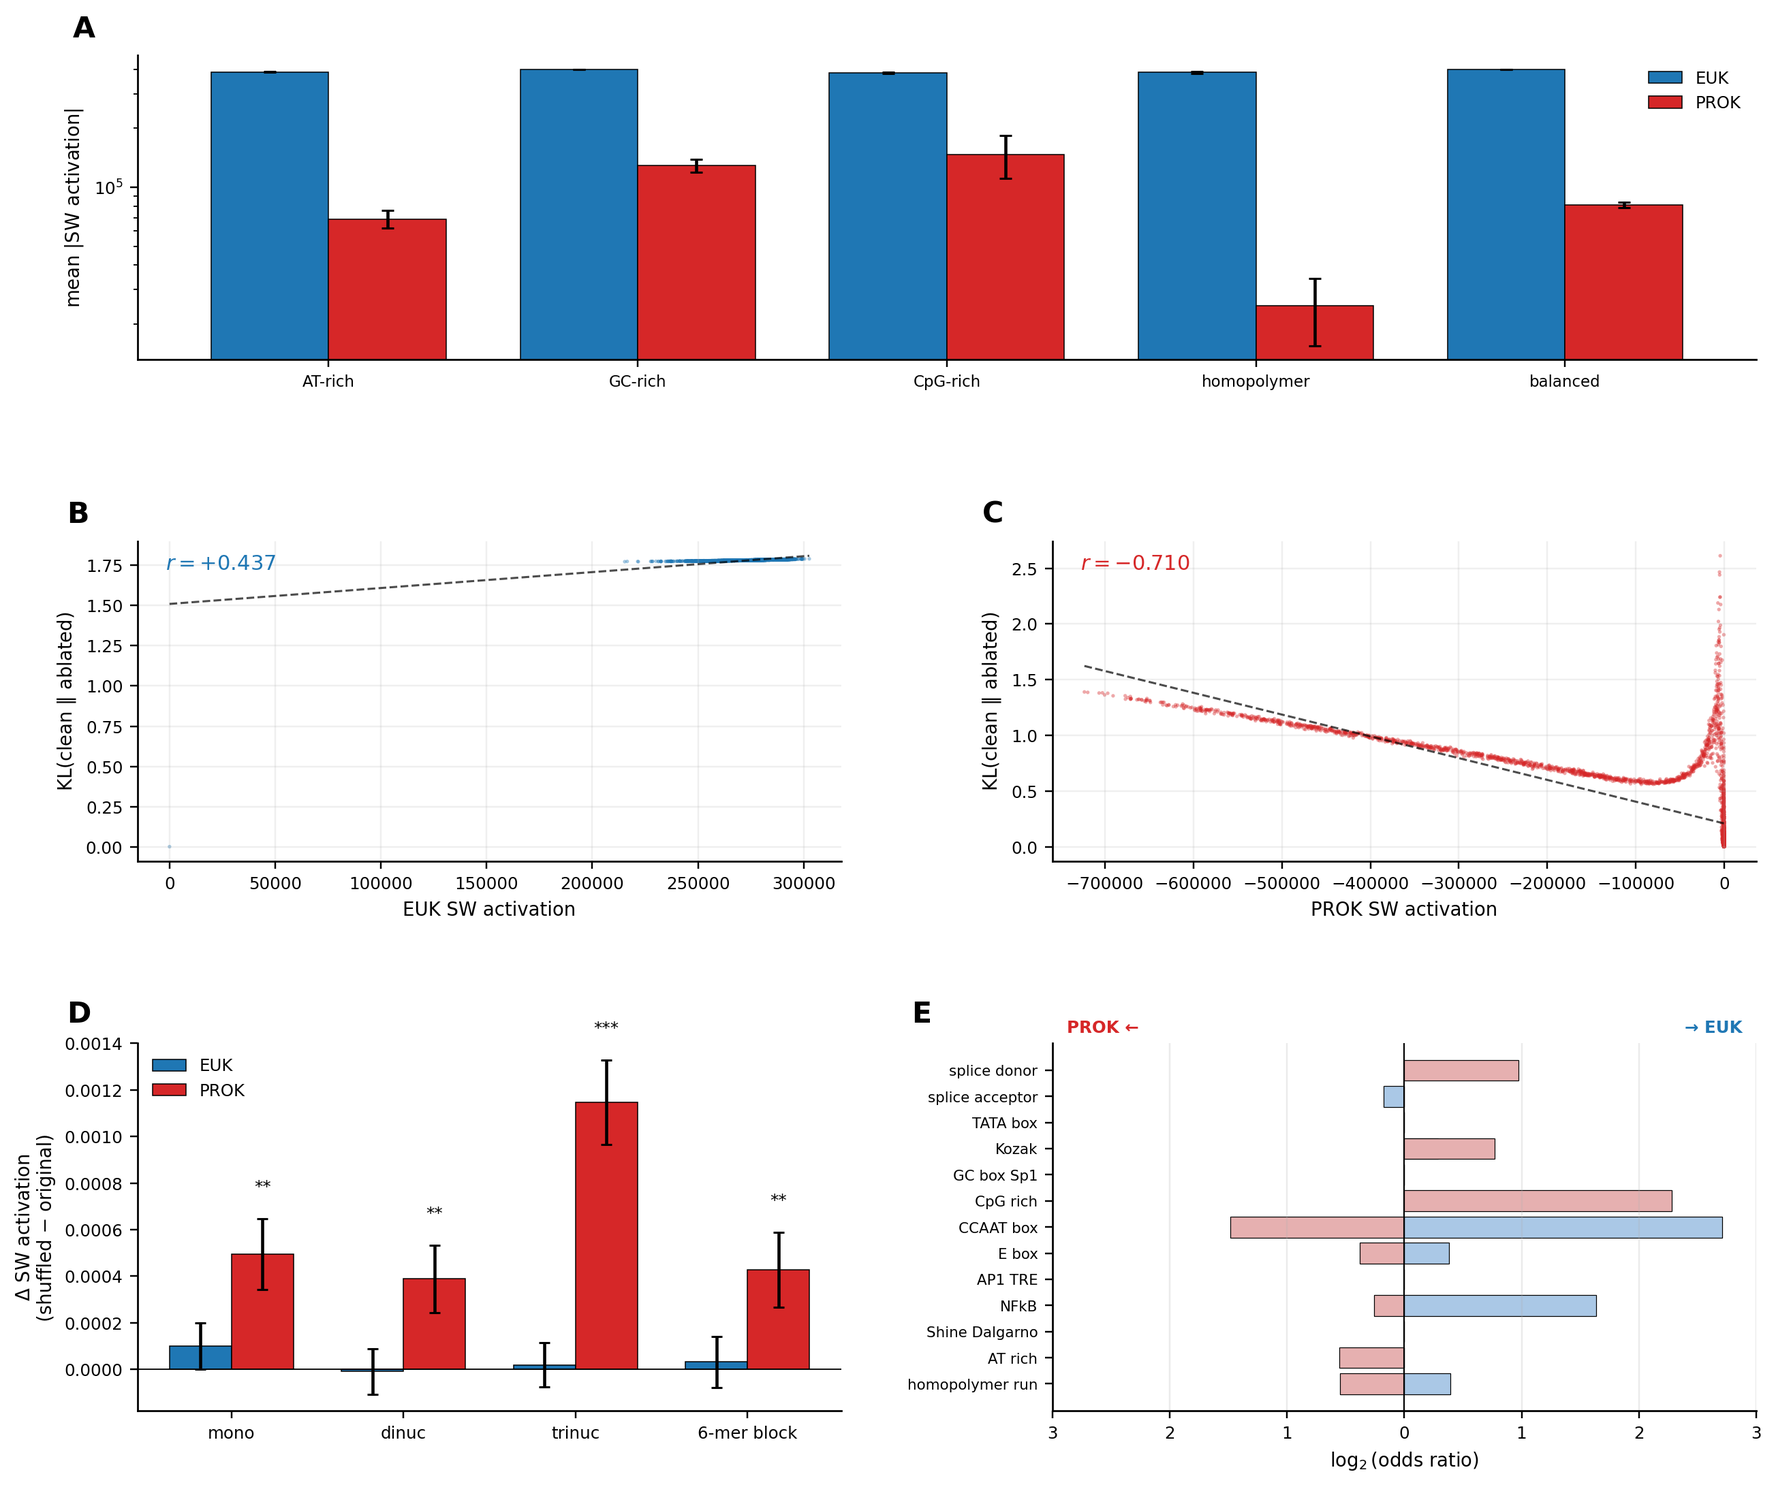
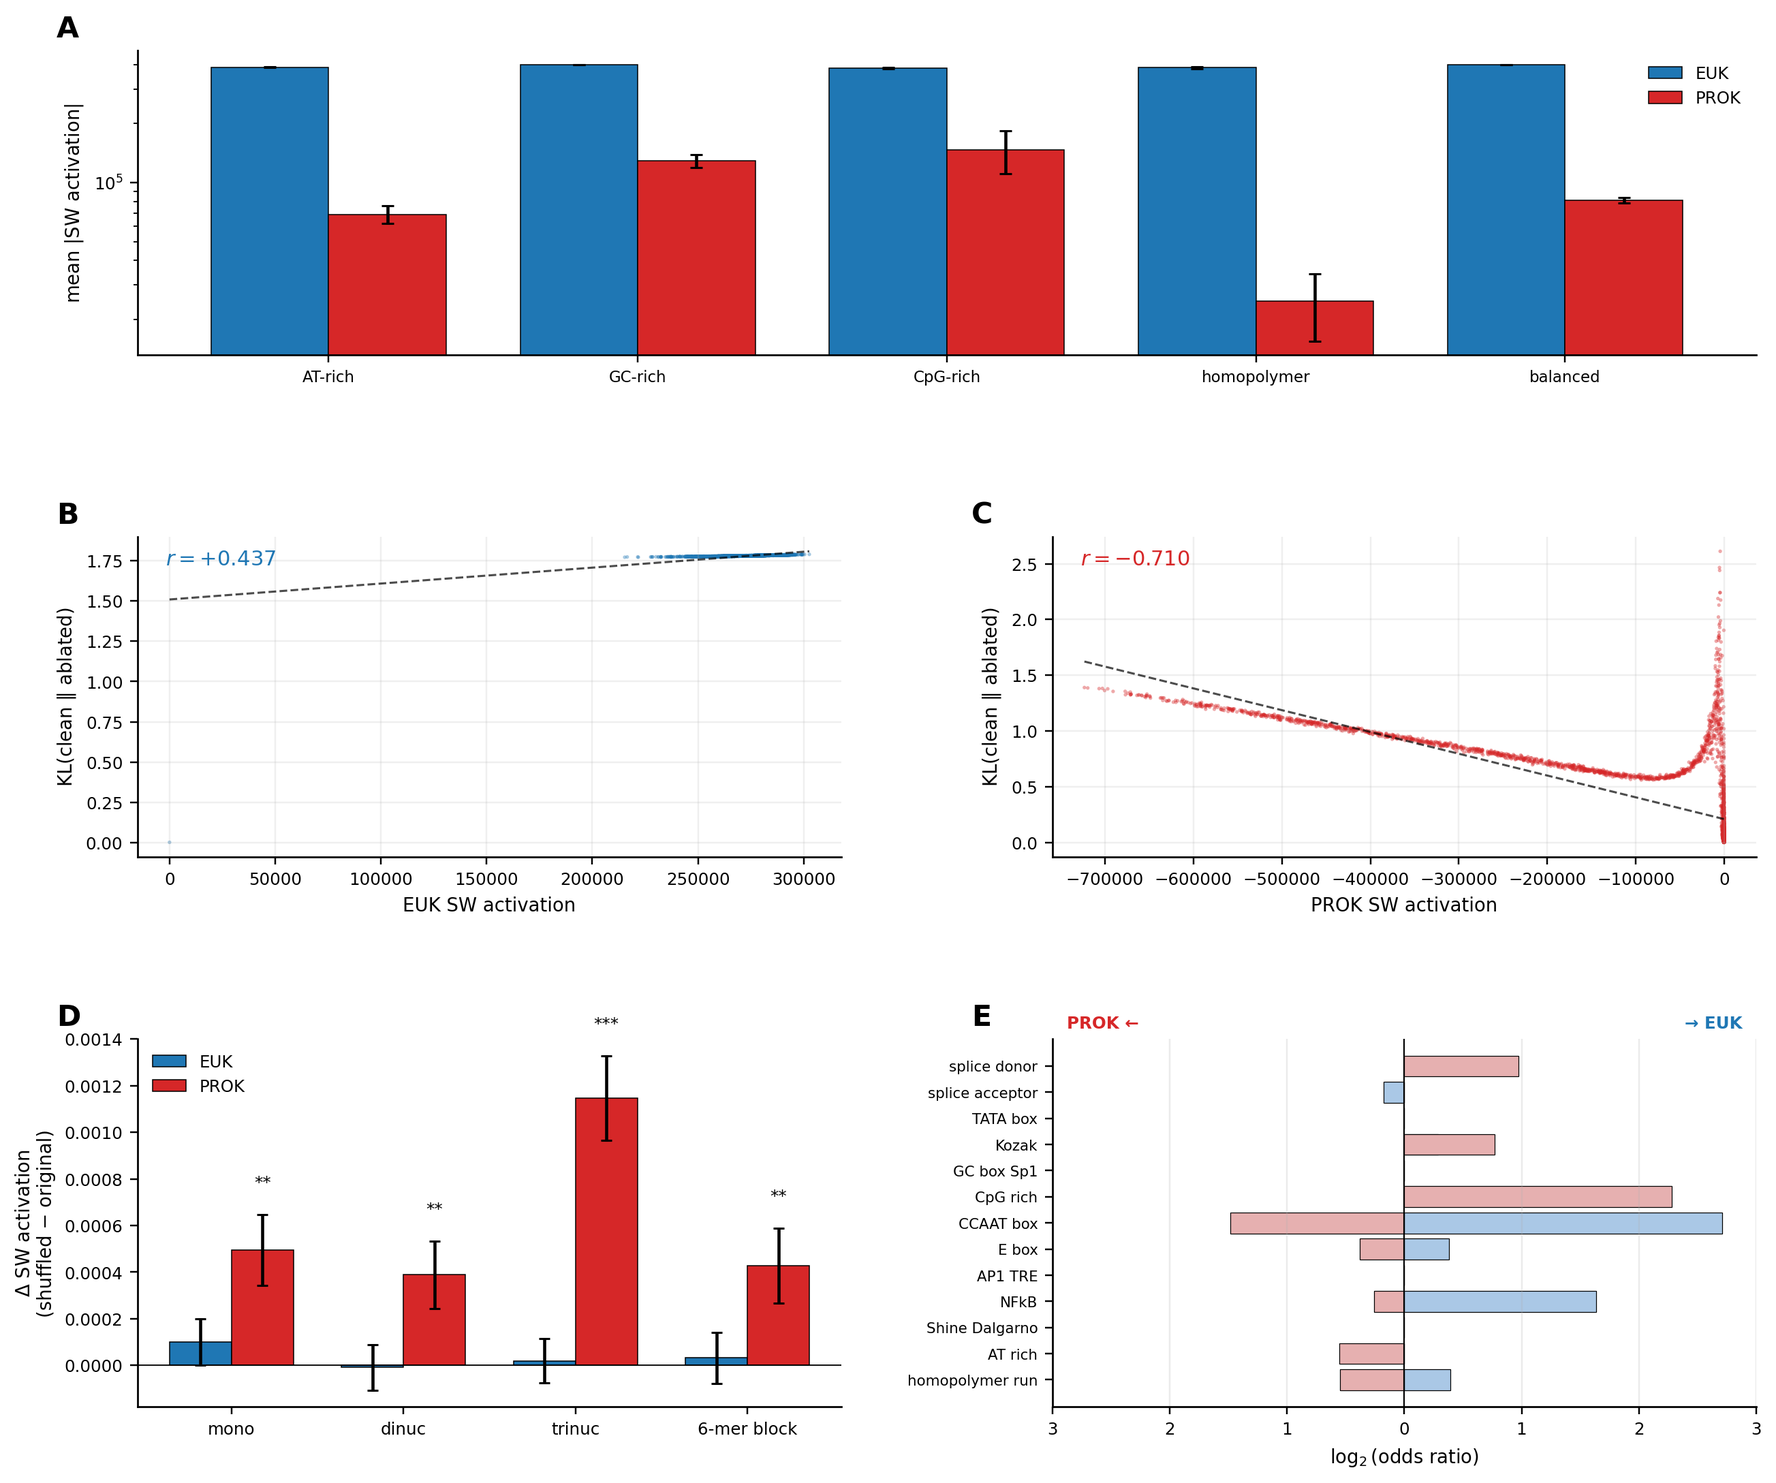
Fig 3 panel-label alignment + sync READMEs and main.tex captions
Fig 3
  * Panel labels A/B/C/D/E now placed in figure coordinates so that
    B and D share an exact vertical line and C and E share an exact
    vertical line, regardless of panel E's wide motif tick labels.

paper/main.tex
  * Fig 2: switched \includegraphics to image_fig2_panels_EF.png,
    rewrote caption to describe only panels E and F (A-D marked
    pending GENERator JSONs). Updated F's Evo1 sentence to the
    bf16-clean preserved-then-frozen + RMSNorm-normalised result.
  * Fig 3: rewrote caption for the 5-panel A-E layout (composition,
    EUK scatter, PROK scatter, shuffle, motif butterfly). Removed
    the SAE-feature description (no longer in the figure).
  * Fig 4: removed the comparative-phenotype (D) description; figure
    is now 3 panels A/B/C.

scripts/analysis/FIGURES_README.md
  * Added note about the shared _figstyle.py helper and Fig 3's
    figure-coordinate label alignment.
  * Rewrote Fig 3 entry: 5 panels with correct data files
    (sw_kmer_scan, sw_hexamer_causal, sw_shuffle_controls,
    sw_kmer_motifs and their prokaryote/ counterparts).
  * Fig 4 entry: 3 panels, callouts replaced with dagger symbol.
  * Fig 5 entry: 3-panel single-row layout (no B1/B2 split).

README.md
  * Added 'Figure cleanup (commit bc5575f)' subsection describing
    the unified style, the redesigned Figs 3/4/5, and the Fig 2 EF
    legend / shading consolidation.

diff --git a/paper/main.tex b/paper/main.tex
@@ -405,26 +405,19 @@ directly via ablation and residual-stream attribution.
 
 \begin{figure}[H]
 \centering
-\includegraphics[width=\textwidth,keepaspectratio]{media/image_fig2.png}
+\includegraphics[width=\textwidth,keepaspectratio]{media/image_fig2_panels_EF.png}
 \caption{\textbf{Cross-architecture structural mechanism: $\|U_k\|_F$
 predicts candidate super-rows in any gated FFN.}
-\textbf{(A--B)}~Activation lifecycle of the SW channel across all 30
-layers for GENERator EUK \textbf{(A)} and PROK \textbf{(B)}. Top:
-post-residual hidden-state magnitude (mean $\pm$ 1\,s.d.\ over 20
-sequences); bottom: per-block contribution to that channel. Dotted
-line marks the step-up layer.
-\textbf{(C--D)}~Cold-weights $\|U_k\|_F$ for every output dimension
-$k$ at the step-up layer in GENERator EUK \textbf{(C)} and PROK
-\textbf{(D)}. SW rows (red dashed lines) rank first among all 3{,}072
-output coordinates, $12\times$ (EUK) and $18\times$ (PROK) above the
-median.
+(Panels A--D, GENERator EUK/PROK activation lifecycle and
+step-up-layer $\|U_k\|_F$ bars, are pending GENERator JSONs from the
+collaborator and are omitted from this render.)
 \textbf{(E)}~Cross-architecture $\|U_k\|_F$ percentile of the
-empirically identified SW rows in GENERator (filled circles, 99th+
-percentile, ablation-positive), DNABERT-2 (filled squares, 9 of 10
+empirically identified SW rows in DNABERT-2 (filled squares, 9 of 10
 rows at 99th+ percentile + one outlier at 8th percentile,
 ablation-positive), NTv3 (filled diamond, rank 1/1{,}536 at L11,
 ablation-positive), and Evo1 (open triangles, 95.9--98.8 percentile,
-ablation-null). The visual asymmetry between filled and open
+ablation-null). GENERator markers (filled circles) drop in once the
+upstream JSONs land. The visual asymmetry between filled and open
 markers at similar percentiles communicates the
 necessary-but-not-sufficient finding: $\|U_k\|_F$ concentrates in all
 four models, but downstream load-bearing depends on the mixing
@@ -433,12 +426,14 @@ operator.
 603 (top): source layers 3/5/6 show MLP-dominant contribution
 (block\_delta tracks mlp\_out), propagator layers 7/8 show
 residual-dominant contribution ($|H_i| > |\Delta_i^{\text{MLP}}|$).
-Evo1 (bottom): the magnitude-165 MLP write is deposited into the
-residual stream essentially unchanged at the source layer
-(block\_delta/mlp\_out $\approx 1.0$), then attenuates by $\sim 56\%$
-across the next conv-mixing block as the long-convolution mixer
-disperses the channel across coordinates rather than preserving it
-along one row.}
+Evo1 row 3776, bf16-clean across all 32 StripedHyena blocks (bottom):
+the MLP writes a magnitude-$\approx\!165$ value at layer 10, then
+layers 11--12 deposit a further $\sim\!10^6$--$10^7$, after which the
+MLP contribution at that row falls to $\approx\!0$ and the residual
+freezes at $\approx 3\times 10^7$ for the remaining 20 blocks.
+Per-token argmax shifts away from row 3776 by layer 13, and the
+residual is normalised away by the pre-unembed RMSNorm, consistent
+with the ablation-null phenotype ($\Delta$PPL $\approx 0$\%).}
 \label{fig:mech}
 \end{figure}
 
@@ -575,23 +570,22 @@ genomes.
 \includegraphics[width=\textwidth,keepaspectratio]{media/image_fig3.png}
 \caption{\textbf{Super-weight encoding and kingdom-asymmetric
 mechanism.}
-\textbf{(A--B)}~Mean absolute SW activation grouped by hexamer
-composition for GENERator EUK \textbf{(A)} and PROK \textbf{(B)}.
-\textbf{(C)}~Causal-hexamer correlation: SW activation ($x$-axis)
+\textbf{(A)}~Mean absolute SW activation grouped by hexamer
+composition class (AT-rich, GC-rich, CpG-rich, homopolymer, balanced)
+for GENERator EUK and PROK side-by-side on a log axis.
+\textbf{(B)}~EUK causal-hexamer scatter: SW activation ($x$-axis)
 vs.\ KL divergence between clean and ablated next-token distributions
-($y$-axis) for all 4{,}096 hexamers. EUK (left) shows positive
-correlation ($r = +0.437$, driver behaviour); PROK (right) shows
-negative correlation ($r = -0.710$, suppressive gate behaviour).
-\textbf{(D)}~SAE feature--SW correlation in PROK\@. Positive
-correlations ($r \approx +0.71$) cluster on GC-rich
-coding/ribosomal hexamers; negative correlations ($r \approx -0.73$)
-cluster on AT-rich homopolymeric sequences, independently recovering
-the suppressive-gate axis.
-\textbf{(E)}~Shuffle-control activation shifts: EUK (all flat,
-$p > 0.31$) vs.\ PROK (all significant, $p < 0.01$).
-\textbf{(F)}~Motif enrichment of the top-500 most SW-dependent
-hexamers (Fisher exact $+$ BH correction). Only homopolymer-run
-enrichment in EUK is significant ($q = 0.022$).}
+($y$-axis) for all 4{,}096 hexamers; $r = +0.437$ (driver behaviour).
+\textbf{(C)}~PROK causal-hexamer scatter, same axes; $r = -0.710$
+(suppressive-gate behaviour). The sign reversal between B and C is
+the headline kingdom asymmetry.
+\textbf{(D)}~Shuffle-control activation shifts across four shuffle
+types (mono-, dinuc-, trinuc-, 6-mer block): EUK all flat
+($p > 0.31$), PROK all significant ($p < 0.01$).
+\textbf{(E)}~Motif enrichment of the top-500 most SW-dependent
+hexamers (Fisher exact + BH correction), drawn as a butterfly with
+PROK $\log_2$ odds ratio on the left and EUK on the right so the
+kingdom contrast is visually immediate.}
 \label{fig:kmer}
 \end{figure}
 
@@ -706,10 +700,7 @@ near-zero MCC), motivating MCC rather than accuracy as the primary
 read-out for this task.
 \textbf{(C)}~Per-row ablation on the DNABERT-2 splice checkpoint: no
 single row causes more than $-1.45\%$ accuracy loss, demonstrating
-distributed-ensemble organisation.
-\textbf{(D)}~Comparative SW phenotype: single-row dominance in causal
-decoders (revealed by perplexity) vs.\ redundant ensemble in masked
-encoders (revealed by downstream task ablation).}
+distributed-ensemble organisation.}
 \label{fig:gue}
 \end{figure}
 

diff --git a/scripts/analysis/plot_figure3.py b/scripts/analysis/plot_figure3.py
@@ -219,11 +219,26 @@ def build(out_path: Path):
     axD = fig.add_subplot(gs[2, 0])
     axE = fig.add_subplot(gs[2, 1])
 
-    panel_A(axA); panel_label(axA, "A", x=-0.04)
-    panel_B(axB); panel_label(axB, "B")
-    panel_C(axC); panel_label(axC, "C")
-    panel_D(axD); panel_label(axD, "D")
-    panel_E(axE); panel_label(axE, "E", x=-0.20)
+    panel_A(axA)
+    panel_B(axB)
+    panel_C(axC)
+    panel_D(axD)
+    panel_E(axE)
+
+    # Align panel labels using *figure* coordinates so B/D share an x and C/E share an x.
+    # Take the left edge of the column-0 and column-1 axes as the anchor.
+    fig.canvas.draw()
+    x_col0 = axB.get_position().x0
+    x_col1 = axC.get_position().x0
+    y_A    = axA.get_position().y1 + 0.005
+    y_BC   = axB.get_position().y1 + 0.005
+    y_DE   = axD.get_position().y1 + 0.005
+    LBL_KW = dict(fontsize=14, fontweight="bold", va="bottom", ha="left")
+    fig.text(x_col0 - 0.045, y_A,  "A", **LBL_KW)
+    fig.text(x_col0 - 0.045, y_BC, "B", **LBL_KW)
+    fig.text(x_col1 - 0.045, y_BC, "C", **LBL_KW)
+    fig.text(x_col0 - 0.045, y_DE, "D", **LBL_KW)
+    fig.text(x_col1 - 0.045, y_DE, "E", **LBL_KW)
 
     out_path.parent.mkdir(parents=True, exist_ok=True)
     fig.savefig(out_path)

diff --git a/scripts/analysis/FIGURES_README.md b/scripts/analysis/FIGURES_README.md
@@ -15,6 +15,14 @@ python scripts/analysis/plot_figureN.py
 
 Output PNG + PDF land in [paper/media/](../../paper/media).
 
+All plot scripts share a unified style helper
+[scripts/analysis/_figstyle.py](_figstyle.py) which applies the
+`apply_style()` defaults (no suptitles, no per-panel titles, sans-serif,
+no top/right spines, editable-text PDF) and exposes the `panel_label()`
+helper for compact bold A/B/C labels in the corner. Fig 3 additionally
+places panel labels in figure coordinates so that labels B/D and C/E
+share exact vertical lines despite differing tick-label widths.
+
 ────────────────────────────────────────────────────────────────────────────
 
 ## Figure 1 — Necessity / sufficiency of SW rows
@@ -71,43 +79,50 @@ target layout.
 
 ────────────────────────────────────────────────────────────────────────────
 
-## Figure 3 — Causal-mediation + propagation cone
+## Figure 3 — Super-weight encoding and kingdom-asymmetric mechanism (5 panels)
 - Script: [scripts/analysis/plot_figure3.py](plot_figure3.py)
 - Output: [paper/media/image_fig3.png](../../paper/media/image_fig3.png), .pdf
 
-| Panel | Data file                                                                                                                                                          | Status   |
-|-------|--------------------------------------------------------------------------------------------------------------------------------------------------------------------|----------|
-| A     | [results/causal_mediation_dnabert2.json](../../results/causal_mediation_dnabert2.json)                                                                             | present  |
-| B     | [results/propagation_cone_dnabert2.json](../../results/propagation_cone_dnabert2.json)                                                                              | present  |
-| C     | [results/hexamer_specificity_dnabert2.json](../../results/hexamer_specificity_dnabert2.json)                                                                       | present  |
+| Panel | What it shows                                                                          | Data file                                                                                                                                  | Status   |
+|-------|----------------------------------------------------------------------------------------|--------------------------------------------------------------------------------------------------------------------------------------------|----------|
+| A     | Mean \|SW act\| by hexamer composition class, EUK vs PROK (log y)                      | [results/sw_kmer_scan.json](../../results/sw_kmer_scan.json) + `results/prokaryote/sw_kmer_scan.json`                                       | present  |
+| B     | EUK causal-hexamer scatter (act vs KL), $r=+0.437$                                     | [results/sw_hexamer_causal.json](../../results/sw_hexamer_causal.json)                                                                     | present  |
+| C     | PROK causal-hexamer scatter, $r=-0.710$                                                | `results/prokaryote/sw_hexamer_causal.json`                                                                                                | present  |
+| D     | Shuffle-control activation shifts (mono/dinuc/trinuc/6-mer), EUK vs PROK               | [results/sw_shuffle_controls.json](../../results/sw_shuffle_controls.json) + `results/prokaryote/sw_shuffle_controls.json`                  | present  |
+| E     | Motif enrichment butterfly (top-500 SW-dependent hexamers, PROK← →EUK)                  | [results/sw_kmer_motifs.json](../../results/sw_kmer_motifs.json) + `results/prokaryote/sw_kmer_motifs.json`                                | present  |
 
-Action: **None.**
+Action: **None.** Redesigned from 8-cell to 5-panel layout in commit `bc5575f`;
+panel labels B/D and C/E are vertically aligned via figure-coordinate `fig.text()`.
 
 ────────────────────────────────────────────────────────────────────────────
 
-## Figure 4 — GUE functional consequences of SW ablation
+## Figure 4 — GUE functional consequences of SW ablation (3 panels)
 - Script: [scripts/analysis/plot_figure4.py](plot_figure4.py) (5-seed NTv3 splice in panel B)
 - Output: [paper/media/image_fig4.png](../../paper/media/image_fig4.png), .pdf
 
 | Panel | What it shows                                                                       | Data file                                                                              | Status   |
 |-------|-------------------------------------------------------------------------------------|----------------------------------------------------------------------------------------|----------|
 | A     | DNABERT-2 multiseed Δacc on 3 GUE tasks (SW rows vs random-10 control)              | [results/gue_multiseed_results.json](../../results/gue_multiseed_results.json)         | present  |
-| B     | NTv3 splice MCC: baseline vs SW-ablated, 5 seeds; majority-class collapse callouts | [results/gue_multiseed_ntv3_splice.json](../../results/gue_multiseed_ntv3_splice.json) | present  |
+| B     | NTv3 splice MCC: baseline vs SW-ablated, 5 seeds; majority-class collapse marked † | [results/gue_multiseed_ntv3_splice.json](../../results/gue_multiseed_ntv3_splice.json) | present  |
 | C     | DNABERT-2 per-row Δacc bar chart on splice/reconstructed                            | [results/gue_per_row_ablation.json](../../results/gue_per_row_ablation.json)           | present  |
 
 Action: **None.** ΔMCC = -0.119 ± 0.054, t = -4.86, p = 0.0083, sign-neg 5/5.
+Redesigned to drop the schematic panel D in commit `bc5575f`.
 
 ────────────────────────────────────────────────────────────────────────────
 
-## Figure 5 — Spearman / GUE-wide effect-size summary
+## Figure 5 — Compression implications (3 panels)
 - Script: [scripts/analysis/plot_figure5.py](plot_figure5.py)
 - Output: [paper/media/image_fig5.png](../../paper/media/image_fig5.png), .pdf
 
-| Panel | Data file                                                                              | Status   |
-|-------|----------------------------------------------------------------------------------------|----------|
-| A / B | [results/gue_full_sweep.json](../../results/gue_full_sweep.json) and Spearman aggregates | present  |
+| Panel | What it shows                                                                          | Data file                                                                                | Status   |
+|-------|----------------------------------------------------------------------------------------|------------------------------------------------------------------------------------------|----------|
+| A     | DNABERT-2 progressive `down_proj` pruning sweep (5 selection criteria, 0.5–30%)        | `results/compression_sweep_*.json`                                                       | present  |
+| B     | Per-row INT4 quantization on GENERator EUK, 10 seeds                                   | `results/quant_ablation_generator_int4.json`                                             | present  |
+| C     | Whole-model INT4 on extended 100k-token probe (EUK + PROK)                             | `results/whole_model_quant_generator{,_prokaryote}_100k.json`                            | present  |
 
-Action: **None.**
+Action: **None.** Dropped the splice-INT4 B2 sidebar in commit `bc5575f`; layout is
+now a clean 3-panel row.
 
 ────────────────────────────────────────────────────────────────────────────
 

diff --git a/README.md b/README.md
@@ -31,6 +31,21 @@ Generated this round:
 - [paper/media/image_fig2_panels_EF.png](paper/media/image_fig2_panels_EF.png)
   (cross-arch ‖U_k‖_F percentile + dual-panel residual attribution)
 
+Figure cleanup (commit `bc5575f`):
+- All plot scripts now share [scripts/analysis/_figstyle.py](scripts/analysis/_figstyle.py)
+  (no suptitles, no per-panel titles, compact bold A/B/C labels in corners,
+  sans-serif, no top/right spines, editable-text PDF).
+- Fig 3 redesigned from an 8-cell stack to 5 clean panels (A composition bars,
+  B EUK scatter, C PROK scatter, D shuffle controls, E motif butterfly).
+  Panel labels B/D and C/E are vertically aligned via figure-coordinate
+  `fig.text()` to handle Panel E's wide motif tick labels.
+- Fig 4 dropped the schematic comparative-phenotype panel D — now 3 panels A/B/C.
+- Fig 5 dropped the splice-INT4 B2 sidebar — now 3 panels A/B/C in a single row.
+- Fig 2 (E+F) legend collapsed to a single block with the GENERator (pending)
+  marker; panel F1 source/propagator regimes shown as background shading; panel
+  F2 has inline annotations for the "MLP writes blow up" and "frozen ≈ 3·10⁷"
+  regions.
+
 Still pending (GENERator EUK / PROK access required from collaborator):
 - Fig 2 panels A–D — activation lifecycle + ‖U_k‖_F bar at step-up layer.
   Expected file names listed in
